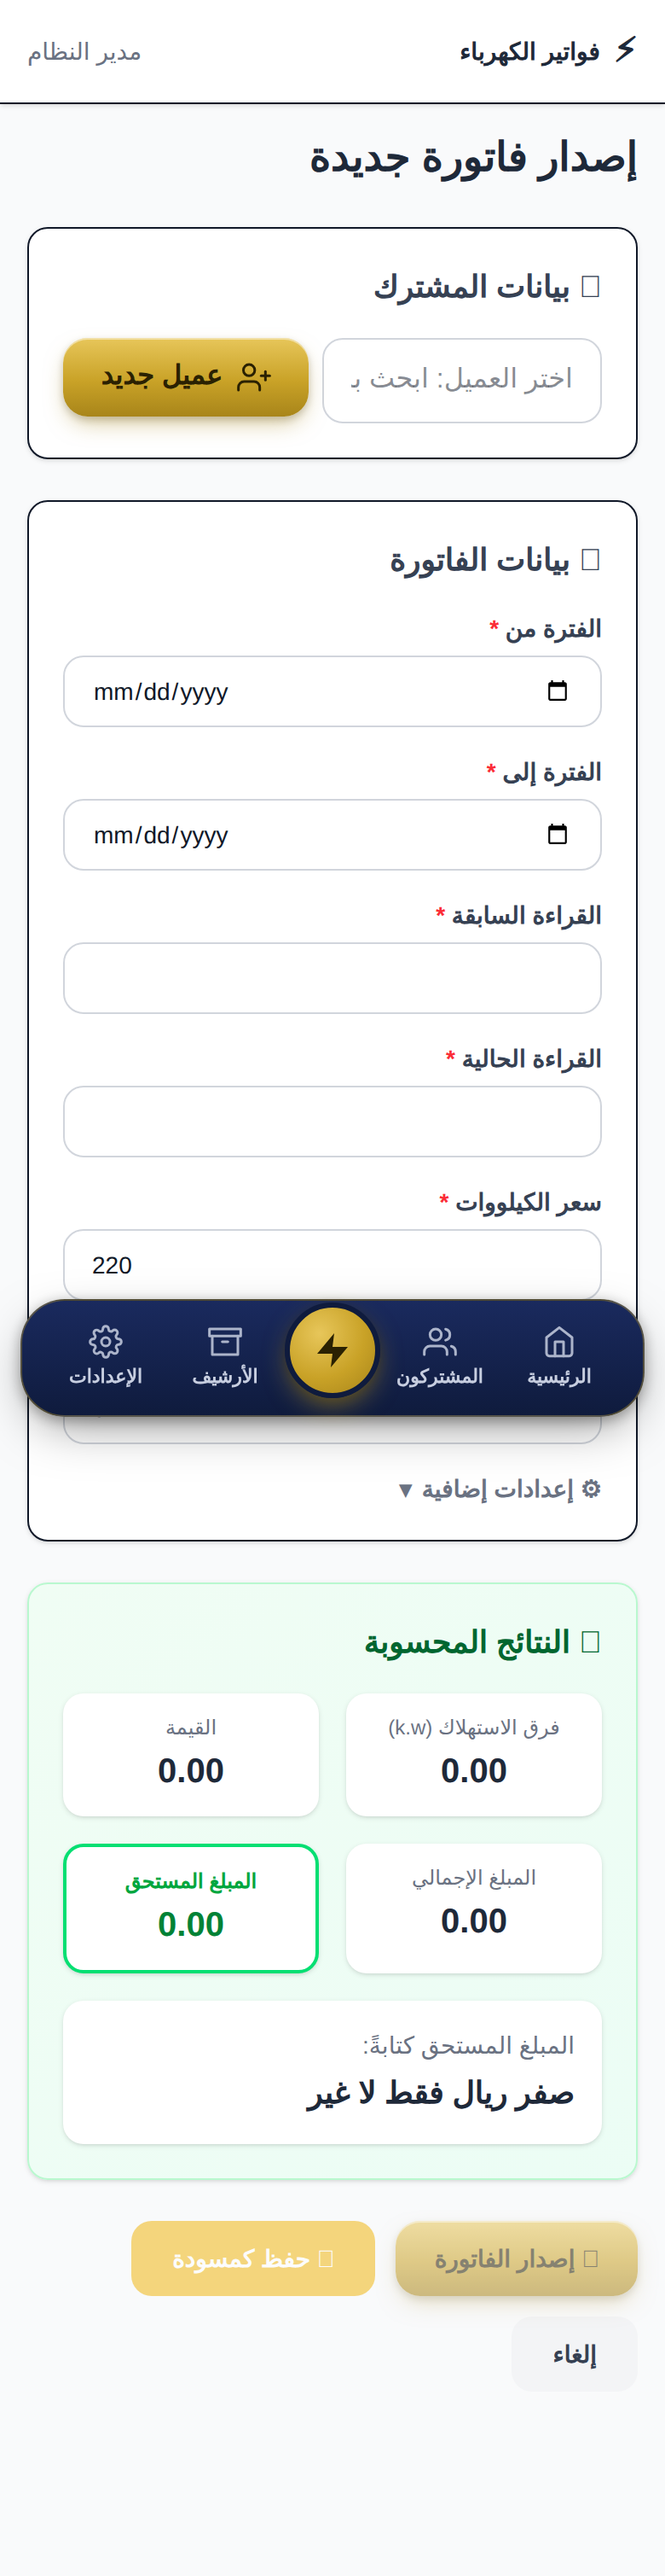
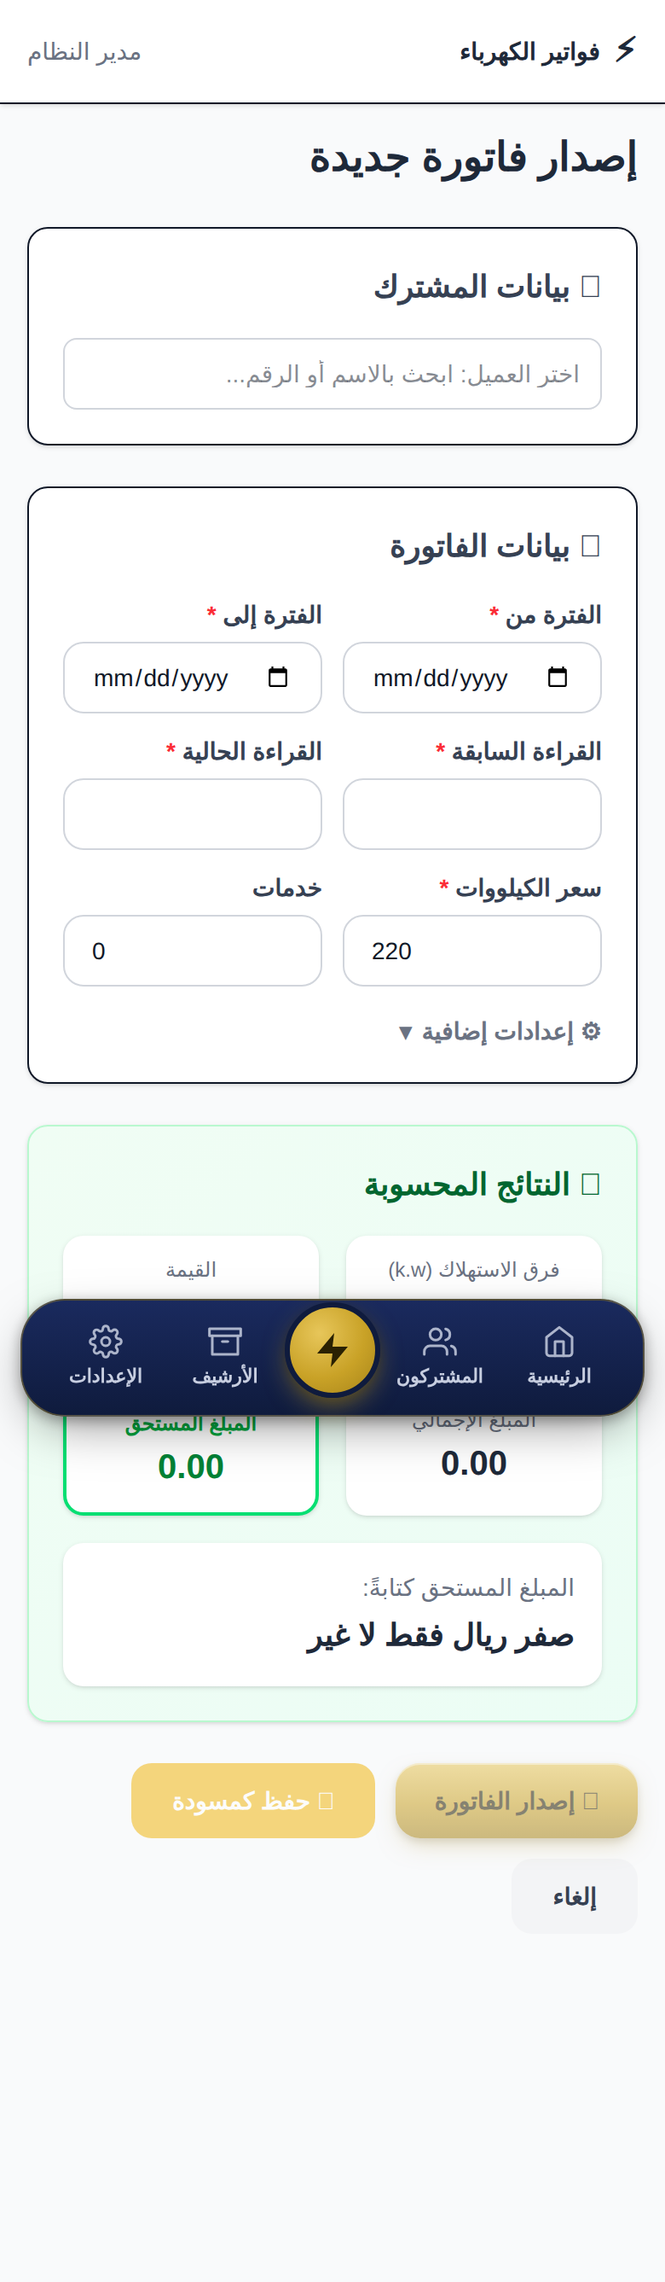
fix(invoice-form): remove new-customer button (search only), compact subscriber card, force 2-col grid for dates/readings on mobile

diff --git a/src/components/InvoiceForm.tsx b/src/components/InvoiceForm.tsx
@@ -2,7 +2,6 @@
 
 import { useState, useEffect, useCallback } from 'react';
 import { useRouter, useSearchParams } from 'next/navigation';
-import { IconUserPlus } from '@/components/Icons';
 
 interface Subscriber {
   id: string;
@@ -35,10 +34,7 @@ export default function InvoiceForm() {
   const [success, setSuccess] = useState('');
   const [createdInvoiceId, setCreatedInvoiceId] = useState('');
   const [showAdvanced, setShowAdvanced] = useState(false);
-  const [showNewSub, setShowNewSub] = useState(false);
   const [lastReadingNote, setLastReadingNote] = useState('');
-  const [newSub, setNewSub] = useState({ subscriberNumber: '', subscriberName: '', meterNumber: '', routeNumber: '', cabinName: '' });
-  const [savingNewSub, setSavingNewSub] = useState(false);
 
   const [form, setForm] = useState({
     cycleNumber: '',
@@ -106,33 +102,6 @@ export default function InvoiceForm() {
       fetchSub();
     }
   }, [preselectedId]);
-
-  // Create new subscriber inline (fast modal)
-  const handleCreateNewSub = async () => {
-    if (!newSub.subscriberName || !newSub.meterNumber || !newSub.subscriberNumber) {
-      setError('يرجى تعبئة رقم المشترك والاسم ورقم العداد');
-      return;
-    }
-    setSavingNewSub(true);
-    setError('');
-    try {
-      const res = await fetch('/billing/api/subscribers', {
-        method: 'POST',
-        headers: { 'Content-Type': 'application/json' },
-        body: JSON.stringify(newSub),
-      });
-      const data = await res.json();
-      if (!res.ok) { setError(data.error || 'خطأ في إضافة المشترك'); return; }
-      const created = data.subscriber;
-      setShowNewSub(false);
-      setNewSub({ subscriberNumber: '', subscriberName: '', meterNumber: '', routeNumber: '', cabinName: '' });
-      if (created) await selectSubscriber(created);
-    } catch {
-      setError('خطأ في الاتصال بالخادم');
-    } finally {
-      setSavingNewSub(false);
-    }
-  };
 
   // Load default unit price from settings
   useEffect(() => {
@@ -239,43 +208,33 @@ export default function InvoiceForm() {
       <h1 className="text-2xl font-bold text-gray-800">إصدار فاتورة جديدة</h1>
 
       {/* Section 1: Subscriber Selection */}
-      <div className="bg-white rounded-xl shadow-sm border p-5">
-        <h2 className="text-lg font-bold text-gray-700 mb-4">📋 بيانات المشترك</h2>
+      <div className="bg-white rounded-xl shadow-sm border p-3.5">
+        <h2 className="text-sm font-bold text-gray-600 mb-2.5">📋 بيانات المشترك</h2>
 
         {!selectedSub ? (
-          <div className="flex gap-2 items-start">
-            <div className="relative flex-1">
-              <input
-                type="text"
-                value={search}
-                onChange={(e) => { setSearch(e.target.value); setShowDropdown(true); }}
-                onFocus={() => setShowDropdown(true)}
-                placeholder="اختر العميل: ابحث بالاسم أو الرقم..."
-                className="w-full px-4 py-3 border border-gray-300 rounded-xl focus:ring-2 focus:ring-blue-500 focus:border-transparent transition outline-none"
-              />
-              {showDropdown && subscribers.length > 0 && (
-                <div className="absolute z-10 w-full mt-1 bg-white border border-gray-200 rounded-xl shadow-lg max-h-60 overflow-y-auto">
-                  {subscribers.map((sub) => (
-                    <button
-                      key={sub.id}
-                      onClick={() => selectSubscriber(sub)}
-                      className="w-full text-right p-3 hover:bg-blue-50 border-b last:border-0 transition"
-                    >
-                      <div className="font-medium text-sm">{sub.subscriberName}</div>
-                      <div className="text-xs text-gray-500">رقم المشترك: {sub.subscriberNumber} | العداد: {sub.meterNumber}</div>
-                    </button>
-                  ))}
-                </div>
-              )}
-            </div>
-            <button
-              type="button"
-              onClick={() => { setShowNewSub(true); setError(''); }}
-              className="btn-luxe btn-gold whitespace-nowrap shrink-0"
-              title="إضافة عميل جديد"
-            >
-              <IconUserPlus className="w-5 h-5" /> عميل جديد
-            </button>
+          <div className="relative">
+            <input
+              type="text"
+              value={search}
+              onChange={(e) => { setSearch(e.target.value); setShowDropdown(true); }}
+              onFocus={() => setShowDropdown(true)}
+              placeholder="اختر العميل: ابحث بالاسم أو الرقم..."
+              className="w-full px-3 py-2.5 text-sm border border-gray-300 rounded-lg focus:ring-2 focus:ring-blue-500 focus:border-transparent transition outline-none"
+            />
+            {showDropdown && subscribers.length > 0 && (
+              <div className="absolute z-10 w-full mt-1 bg-white border border-gray-200 rounded-xl shadow-lg max-h-60 overflow-y-auto">
+                {subscribers.map((sub) => (
+                  <button
+                    key={sub.id}
+                    onClick={() => selectSubscriber(sub)}
+                    className="w-full text-right p-3 hover:bg-blue-50 border-b last:border-0 transition"
+                  >
+                    <div className="font-medium text-sm">{sub.subscriberName}</div>
+                    <div className="text-xs text-gray-500">رقم المشترك: {sub.subscriberNumber} | العداد: {sub.meterNumber}</div>
+                  </button>
+                ))}
+              </div>
+            )}
           </div>
         ) : (
           <div className="bg-blue-50 rounded-xl p-4">
@@ -296,7 +255,7 @@ export default function InvoiceForm() {
       {/* Section 2: Invoice Data */}
       <div className="bg-white rounded-xl shadow-sm border p-5">
         <h2 className="text-lg font-bold text-gray-700 mb-4">📊 بيانات الفاتورة</h2>
-        <div className="grid grid-cols-1 md:grid-cols-2 lg:grid-cols-4 gap-4">
+        <div className="grid grid-cols-2 lg:grid-cols-4 gap-3 sm:gap-4">
           <div>
             <label className="block text-sm font-semibold text-gray-700 mb-1.5">الفترة من <span className="text-red-500">*</span></label>
             <input type="date" name="periodFrom" value={form.periodFrom} onChange={handleChange} className="w-full px-4 py-2.5 border border-gray-300 rounded-xl focus:ring-2 focus:ring-blue-500 focus:border-transparent transition outline-none text-sm" dir="ltr" />
@@ -427,45 +386,6 @@ export default function InvoiceForm() {
         </div>
       )}
 
-      {/* New subscriber modal */}
-      {showNewSub && (
-        <div className="fixed inset-0 z-[60] flex items-center justify-center p-4 bg-black/50" onClick={() => setShowNewSub(false)}>
-          <div className="bg-white rounded-2xl shadow-2xl w-full max-w-lg p-6" onClick={(e) => e.stopPropagation()}>
-            <div className="flex items-center justify-between mb-4">
-              <h3 className="text-lg font-bold text-gray-800 flex items-center gap-2"><IconUserPlus className="w-5 h-5 text-blue-600" /> عميل جديد</h3>
-              <button onClick={() => setShowNewSub(false)} className="text-gray-400 hover:text-gray-600 text-xl">✕</button>
-            </div>
-            <div className="grid grid-cols-1 sm:grid-cols-2 gap-3">
-              <div>
-                <label className="block text-sm font-semibold text-gray-700 mb-1">رقم المشترك <span className="text-red-500">*</span></label>
-                <input value={newSub.subscriberNumber} onChange={(e) => setNewSub({ ...newSub, subscriberNumber: e.target.value })} className="w-full px-3 py-2.5 border border-gray-300 rounded-xl outline-none focus:ring-2 focus:ring-blue-500 text-sm" dir="ltr" />
-              </div>
-              <div>
-                <label className="block text-sm font-semibold text-gray-700 mb-1">الاسم <span className="text-red-500">*</span></label>
-                <input value={newSub.subscriberName} onChange={(e) => setNewSub({ ...newSub, subscriberName: e.target.value })} className="w-full px-3 py-2.5 border border-gray-300 rounded-xl outline-none focus:ring-2 focus:ring-blue-500 text-sm" />
-              </div>
-              <div>
-                <label className="block text-sm font-semibold text-gray-700 mb-1">رقم العداد <span className="text-red-500">*</span></label>
-                <input value={newSub.meterNumber} onChange={(e) => setNewSub({ ...newSub, meterNumber: e.target.value })} className="w-full px-3 py-2.5 border border-gray-300 rounded-xl outline-none focus:ring-2 focus:ring-blue-500 text-sm" dir="ltr" />
-              </div>
-              <div>
-                <label className="block text-sm font-semibold text-gray-700 mb-1">خط السير</label>
-                <input value={newSub.routeNumber} onChange={(e) => setNewSub({ ...newSub, routeNumber: e.target.value })} className="w-full px-3 py-2.5 border border-gray-300 rounded-xl outline-none focus:ring-2 focus:ring-blue-500 text-sm" dir="ltr" />
-              </div>
-              <div className="sm:col-span-2">
-                <label className="block text-sm font-semibold text-gray-700 mb-1">الكبينة</label>
-                <input value={newSub.cabinName} onChange={(e) => setNewSub({ ...newSub, cabinName: e.target.value })} className="w-full px-3 py-2.5 border border-gray-300 rounded-xl outline-none focus:ring-2 focus:ring-blue-500 text-sm" />
-              </div>
-            </div>
-            <div className="flex gap-3 mt-5">
-              <button onClick={handleCreateNewSub} disabled={savingNewSub} className="btn-luxe btn-gold text-sm flex-1">
-                {savingNewSub ? 'جاري الحفظ...' : 'حفظ واختيار'}
-              </button>
-              <button onClick={() => setShowNewSub(false)} className="bg-gray-100 text-gray-700 px-6 py-3 rounded-xl font-bold hover:bg-gray-200 transition text-sm">إلغاء</button>
-            </div>
-          </div>
-        </div>
-      )}
     </div>
   );
 }
